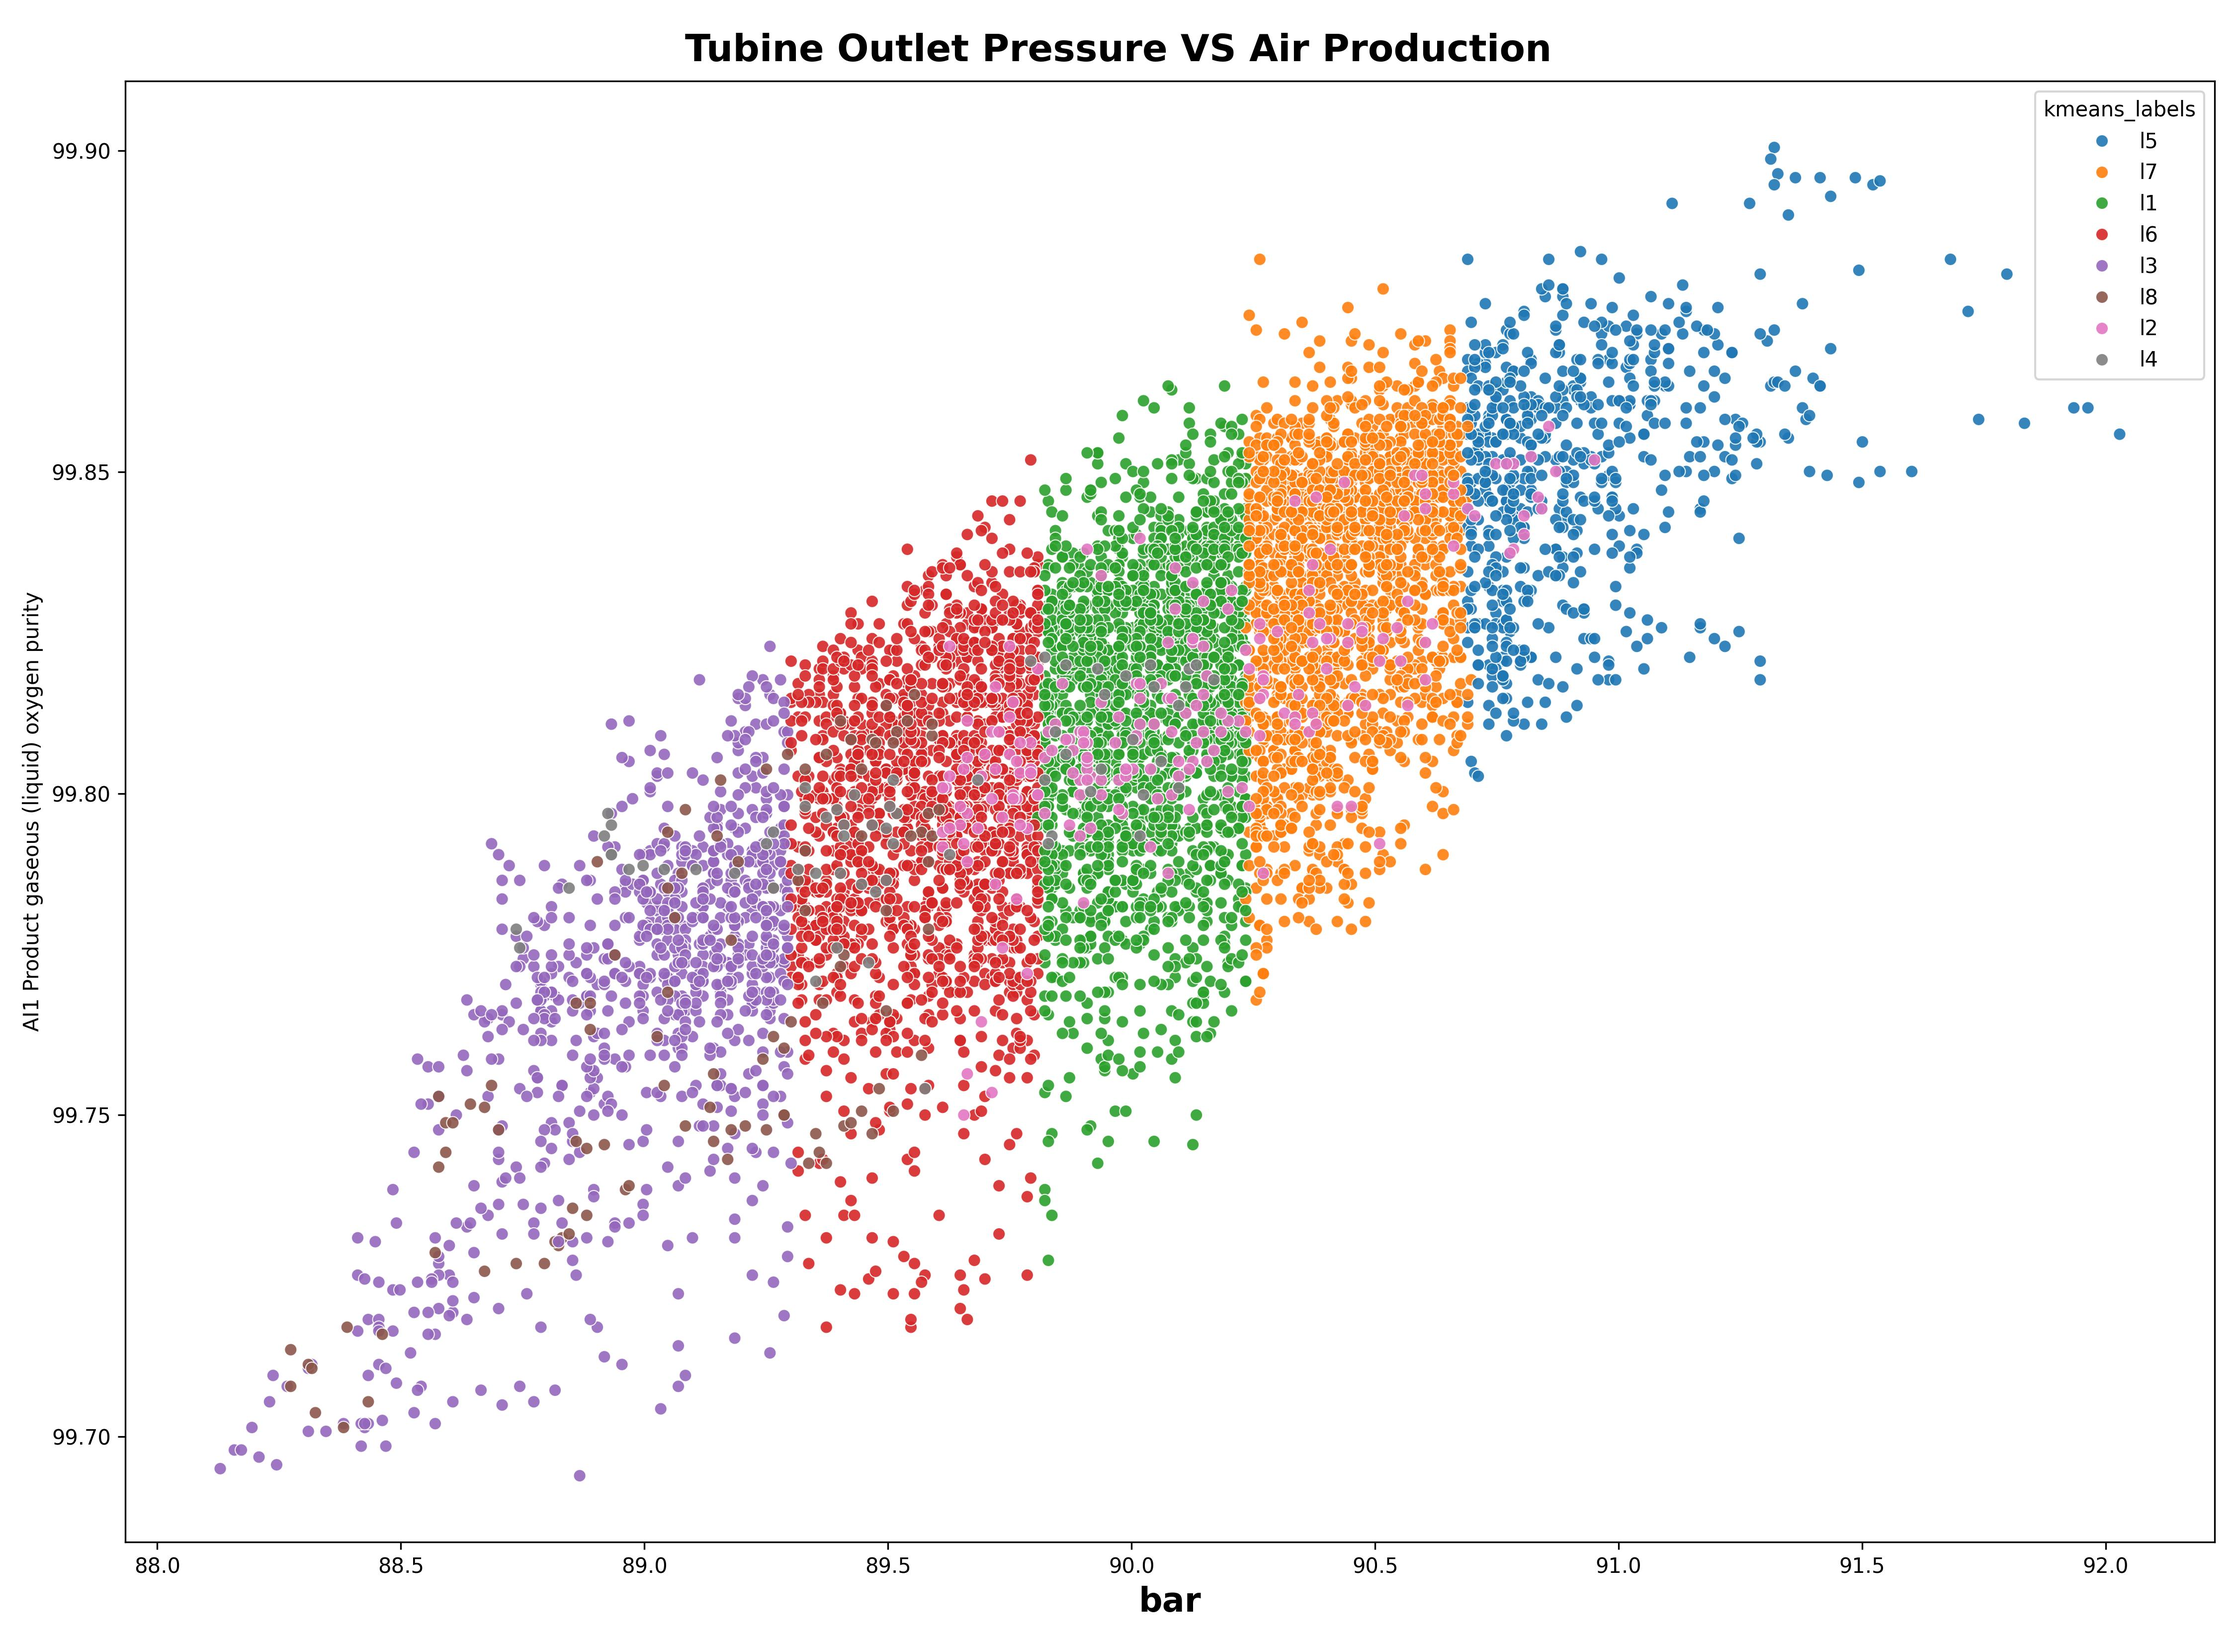
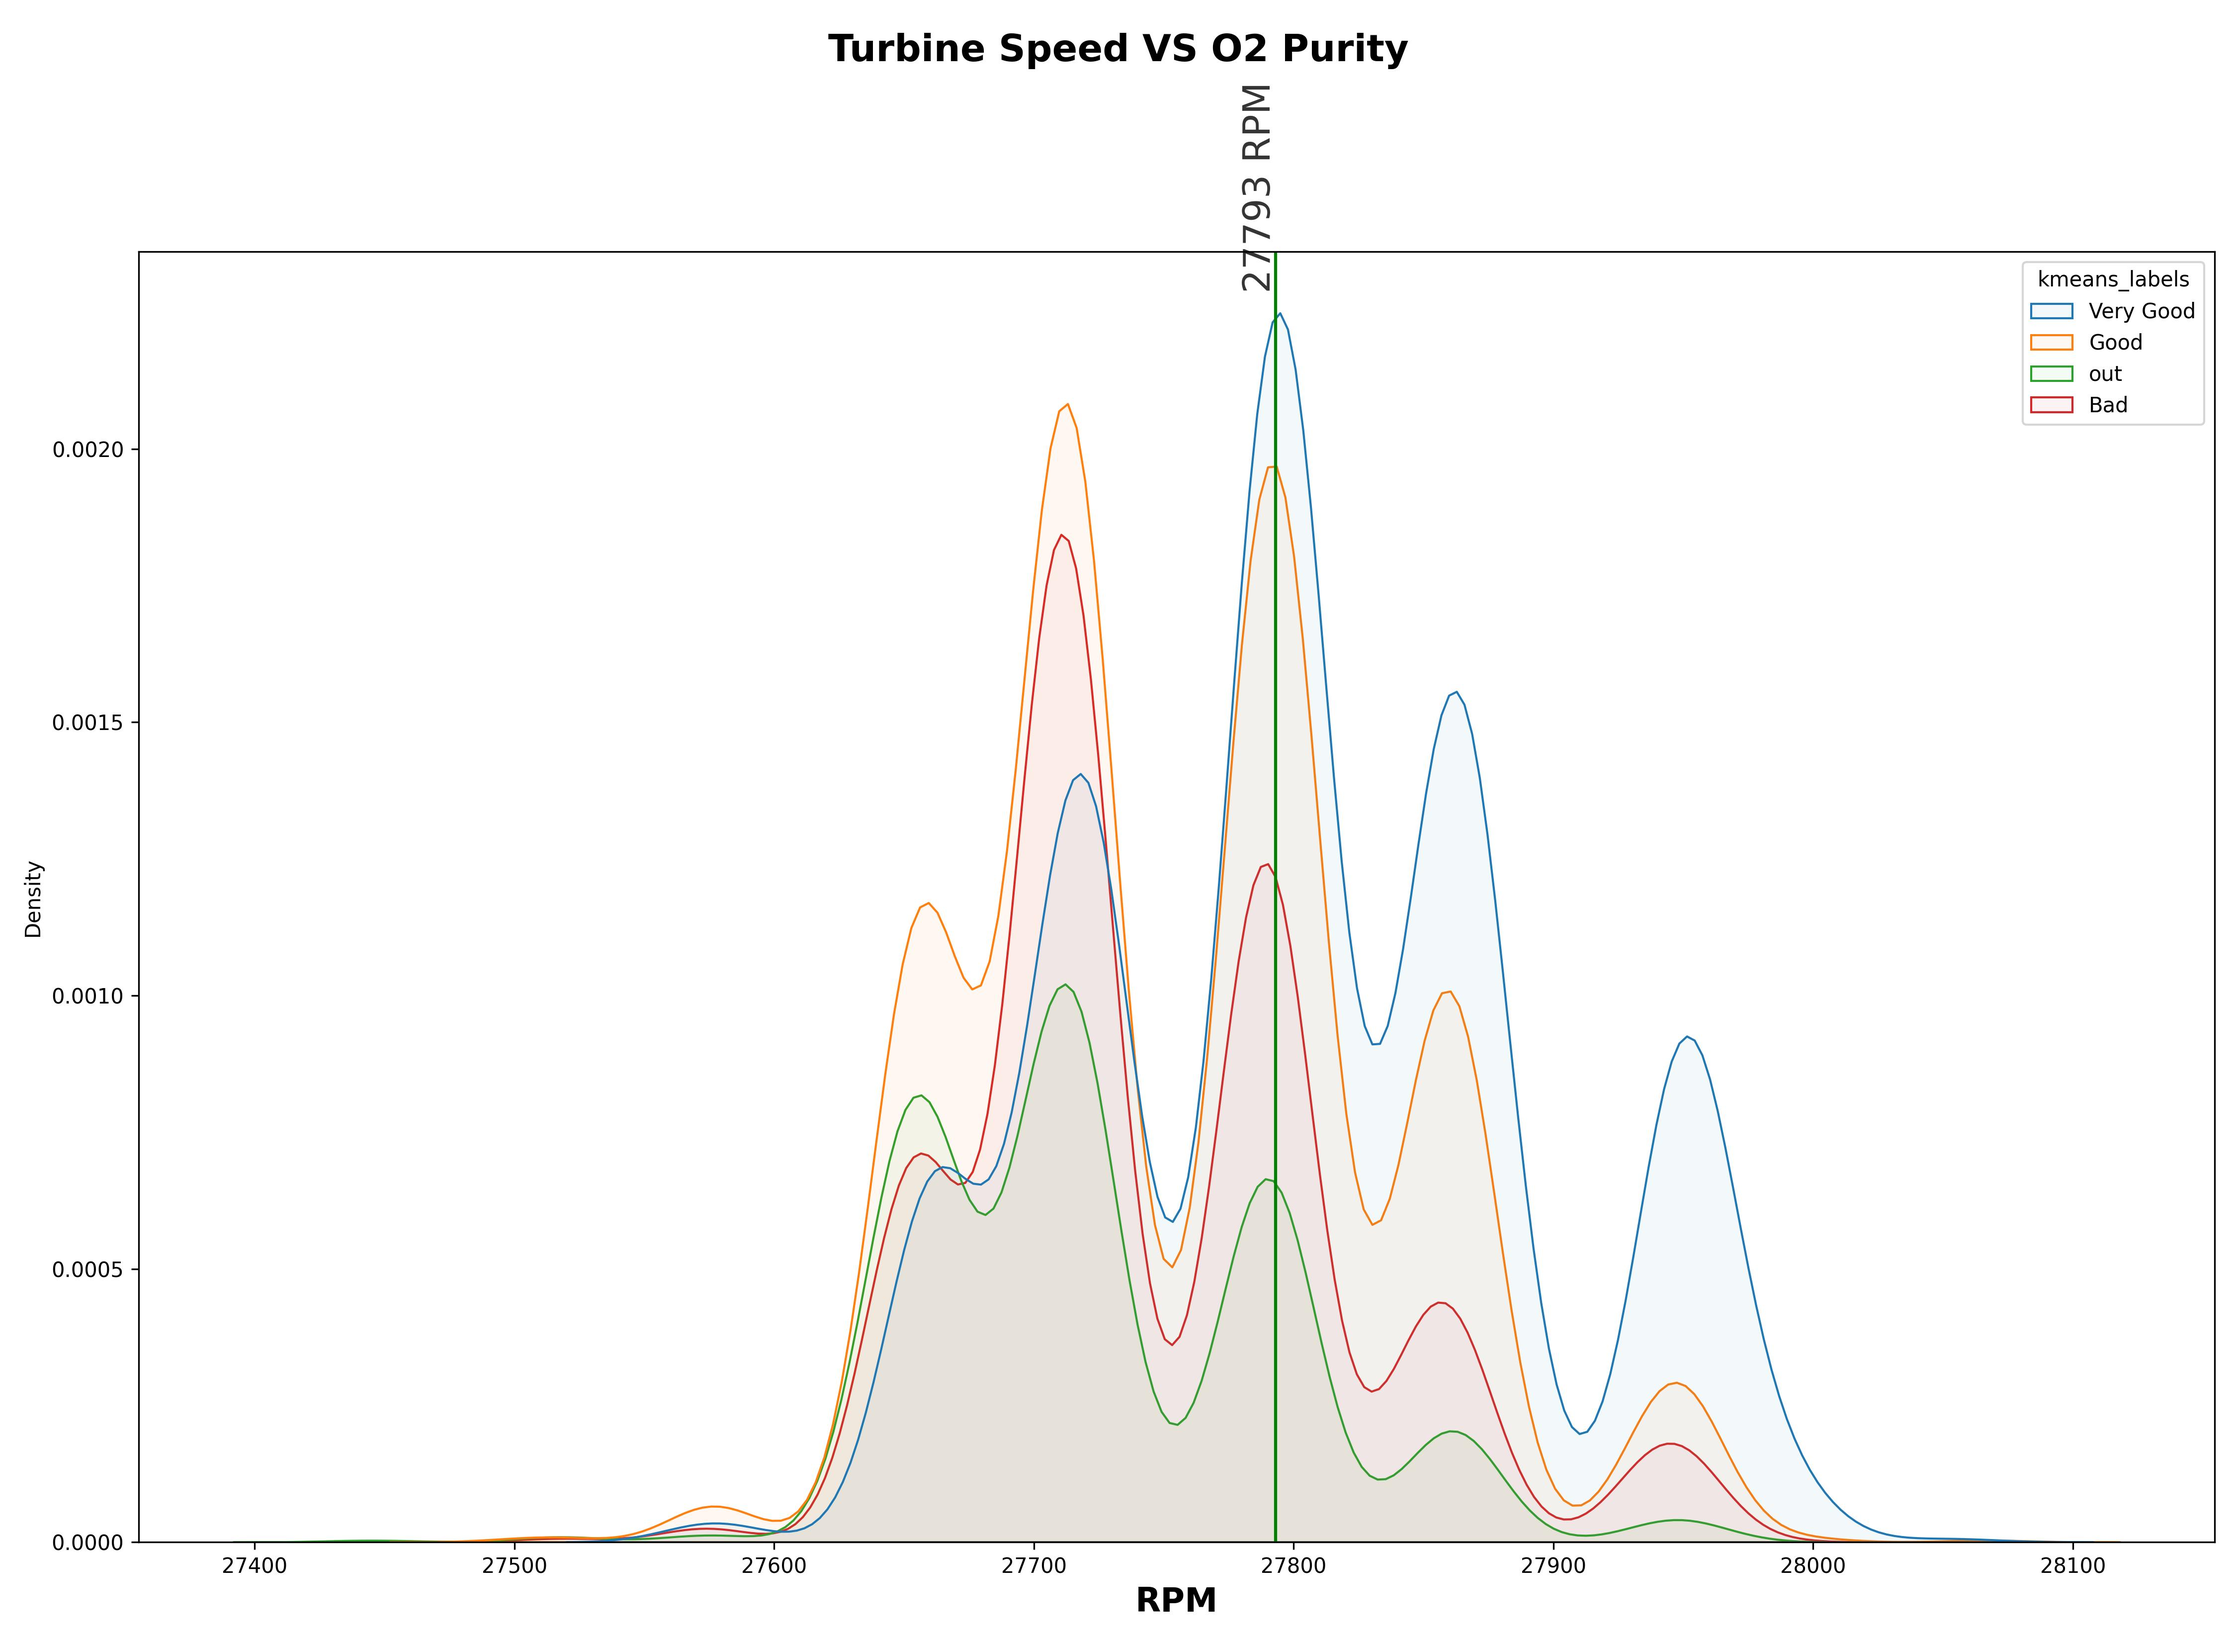
PCA and Kmeans tested

diff --git a/code/kmean-oxy.py b/code/kmean-oxy.py
@@ -1,9 +1,12 @@
 import pandas as pd
+import numpy as np
 import matplotlib.pyplot as plt
 from matplotlib.gridspec import GridSpec
 import seaborn as sns
 from datetime import datetime
 from sklearn.cluster import KMeans
+from sklearn.decomposition import PCA
+from sklearn.preprocessing import MinMaxScaler
 
 import os
 
@@ -16,17 +19,41 @@ df = pd.read_csv(f"{working_dir}/data/Oxygen_Plant_24Days.csv")
 df.drop(labels='time',axis=1,inplace=True)
 #print(df.info())
 
+scale = MinMaxScaler()
+normal_data = scale.fit_transform(df)
+#print(normal_data)
 
-km_df = df.filter(['AI1 Product gaseous (liquid) oxygen purity','Analys Argon (AI7) Product argon purity (O2 content)','AI4 Oxygen content in waste nitrogen'],axis=1) #,'AI4 Oxygen content in waste nitrogen'
-#km_df = km_df.reindex(['AI4 Oxygen content in waste nitrogen','AI1 Product gaseous (liquid) oxygen purity'], axis=1)
-print(km_df.head())
-km_analysis = KMeans(n_clusters=8,init='k-means++', n_init=10)
-clust_lable_dict = {0:'l1',1:'l2',2:'l3',3:'l4',4:'l5',5:'l6',6:'l7',7:'l8'}
-km_analysis.fit(km_df)
-labels = [clust_lable_dict[i] for i in km_analysis.labels_]
+pca = PCA(n_components=2)
+pca_output = pca.fit_transform(normal_data)
+print(pca.explained_variance_ratio_)
+
+km = KMeans(n_clusters= 4,random_state= 0)
+km.fit(pca_output)
+clust_lable_dict = {0:'Good',1:'out',2:'Bad',3:'Very Good',4:'l5',5:'l6',6:'l7',7:'l8'}
+labels = [clust_lable_dict[i] for i in km.labels_]
+
+#//Air turbine outlet pressure VS products
+fig = plt.figure(figsize=(15,11),dpi=300)
+fig.suptitle('Tubine Outlet Pressure VS Air Production', fontsize=18,fontweight='bold')
+ax1 = fig.subplots(1,1)
+ax1.set_xlabel('bar', fontsize=16,fontweight='bold')
+sns.scatterplot(
+    #data=df,
+    x=pca_output[:,0],
+    #y='AI4 Oxygen content in waste nitrogen',
+    y=pca_output[:,1],
+    hue=labels,
+    alpha = 0.9,
+)
+fig.tight_layout()
+#plt.savefig(f'{working_dir}/temp/temp.jpg')
+#plt.show()
+fig.clear()
+
+
+
 df['kmeans_labels'] = labels
-#print(df.head())
-
+print(df.head())
 
 #//Air turbine outlet pressure VS products
 fig = plt.figure(figsize=(15,11),dpi=300)
@@ -35,14 +62,14 @@ ax1 = fig.subplots(1,1)
 ax1.set_xlabel('bar', fontsize=16,fontweight='bold')
 sns.scatterplot(
     data=df,
-    #x=df.index,
-    x='AI4 Oxygen content in waste nitrogen',
+    x=df.index,
+    #y='AI4 Oxygen content in waste nitrogen',
     y='AI1 Product gaseous (liquid) oxygen purity',
     hue='kmeans_labels',
     alpha = 0.9,
 )
 fig.tight_layout()
-plt.savefig(f'{working_dir}/temp/temp.jpg')
+#plt.savefig(f'{working_dir}/temp/temp.jpg')
 #plt.show()
 fig.clear()
 
@@ -81,6 +108,6 @@ plt.annotate('27793 RPM', xy =(27787, 0.0023),rotation = 90,ha='center', fontsiz
 #plt.axvline(210, c='red')
 #plt.annotate('224', xy =(224, 0.009),rotation = 90,ha='center', fontsize=16) 
 fig.tight_layout()
-#plt.savefig(f'{working_dir}/temp/temp.jpg')
+plt.savefig(f'{working_dir}/temp/temp.jpg')
 #plt.show()
 fig.clear()
